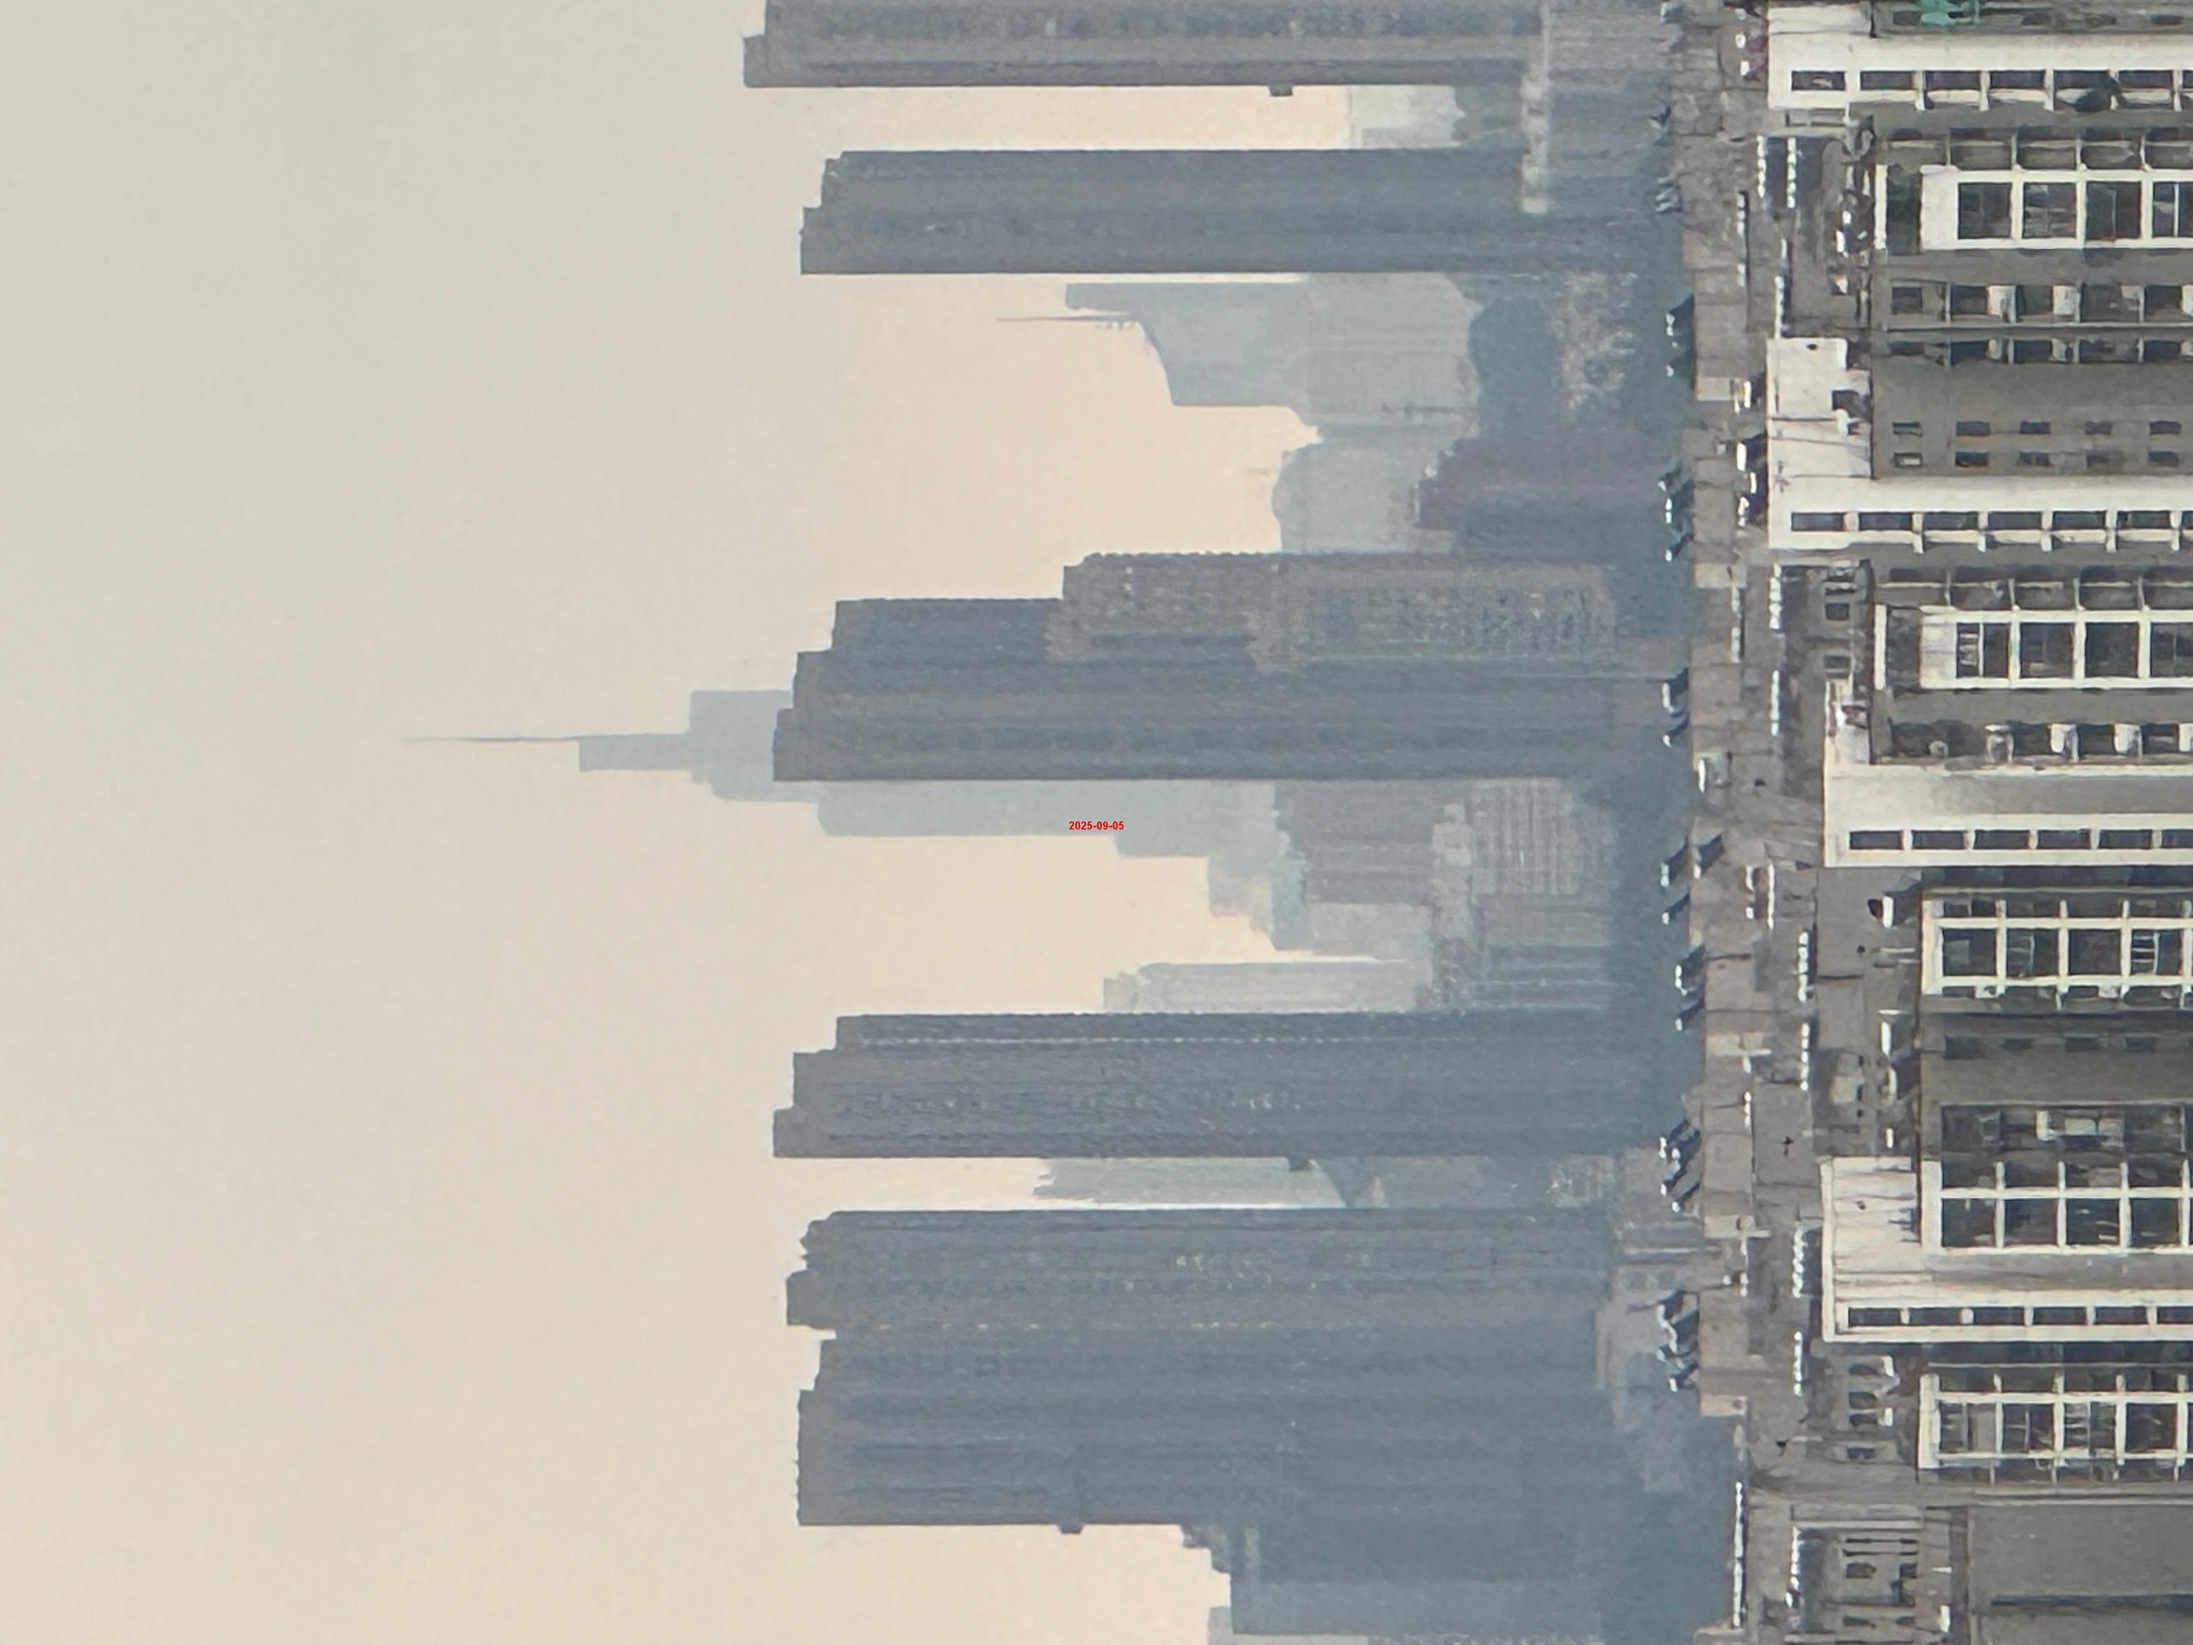
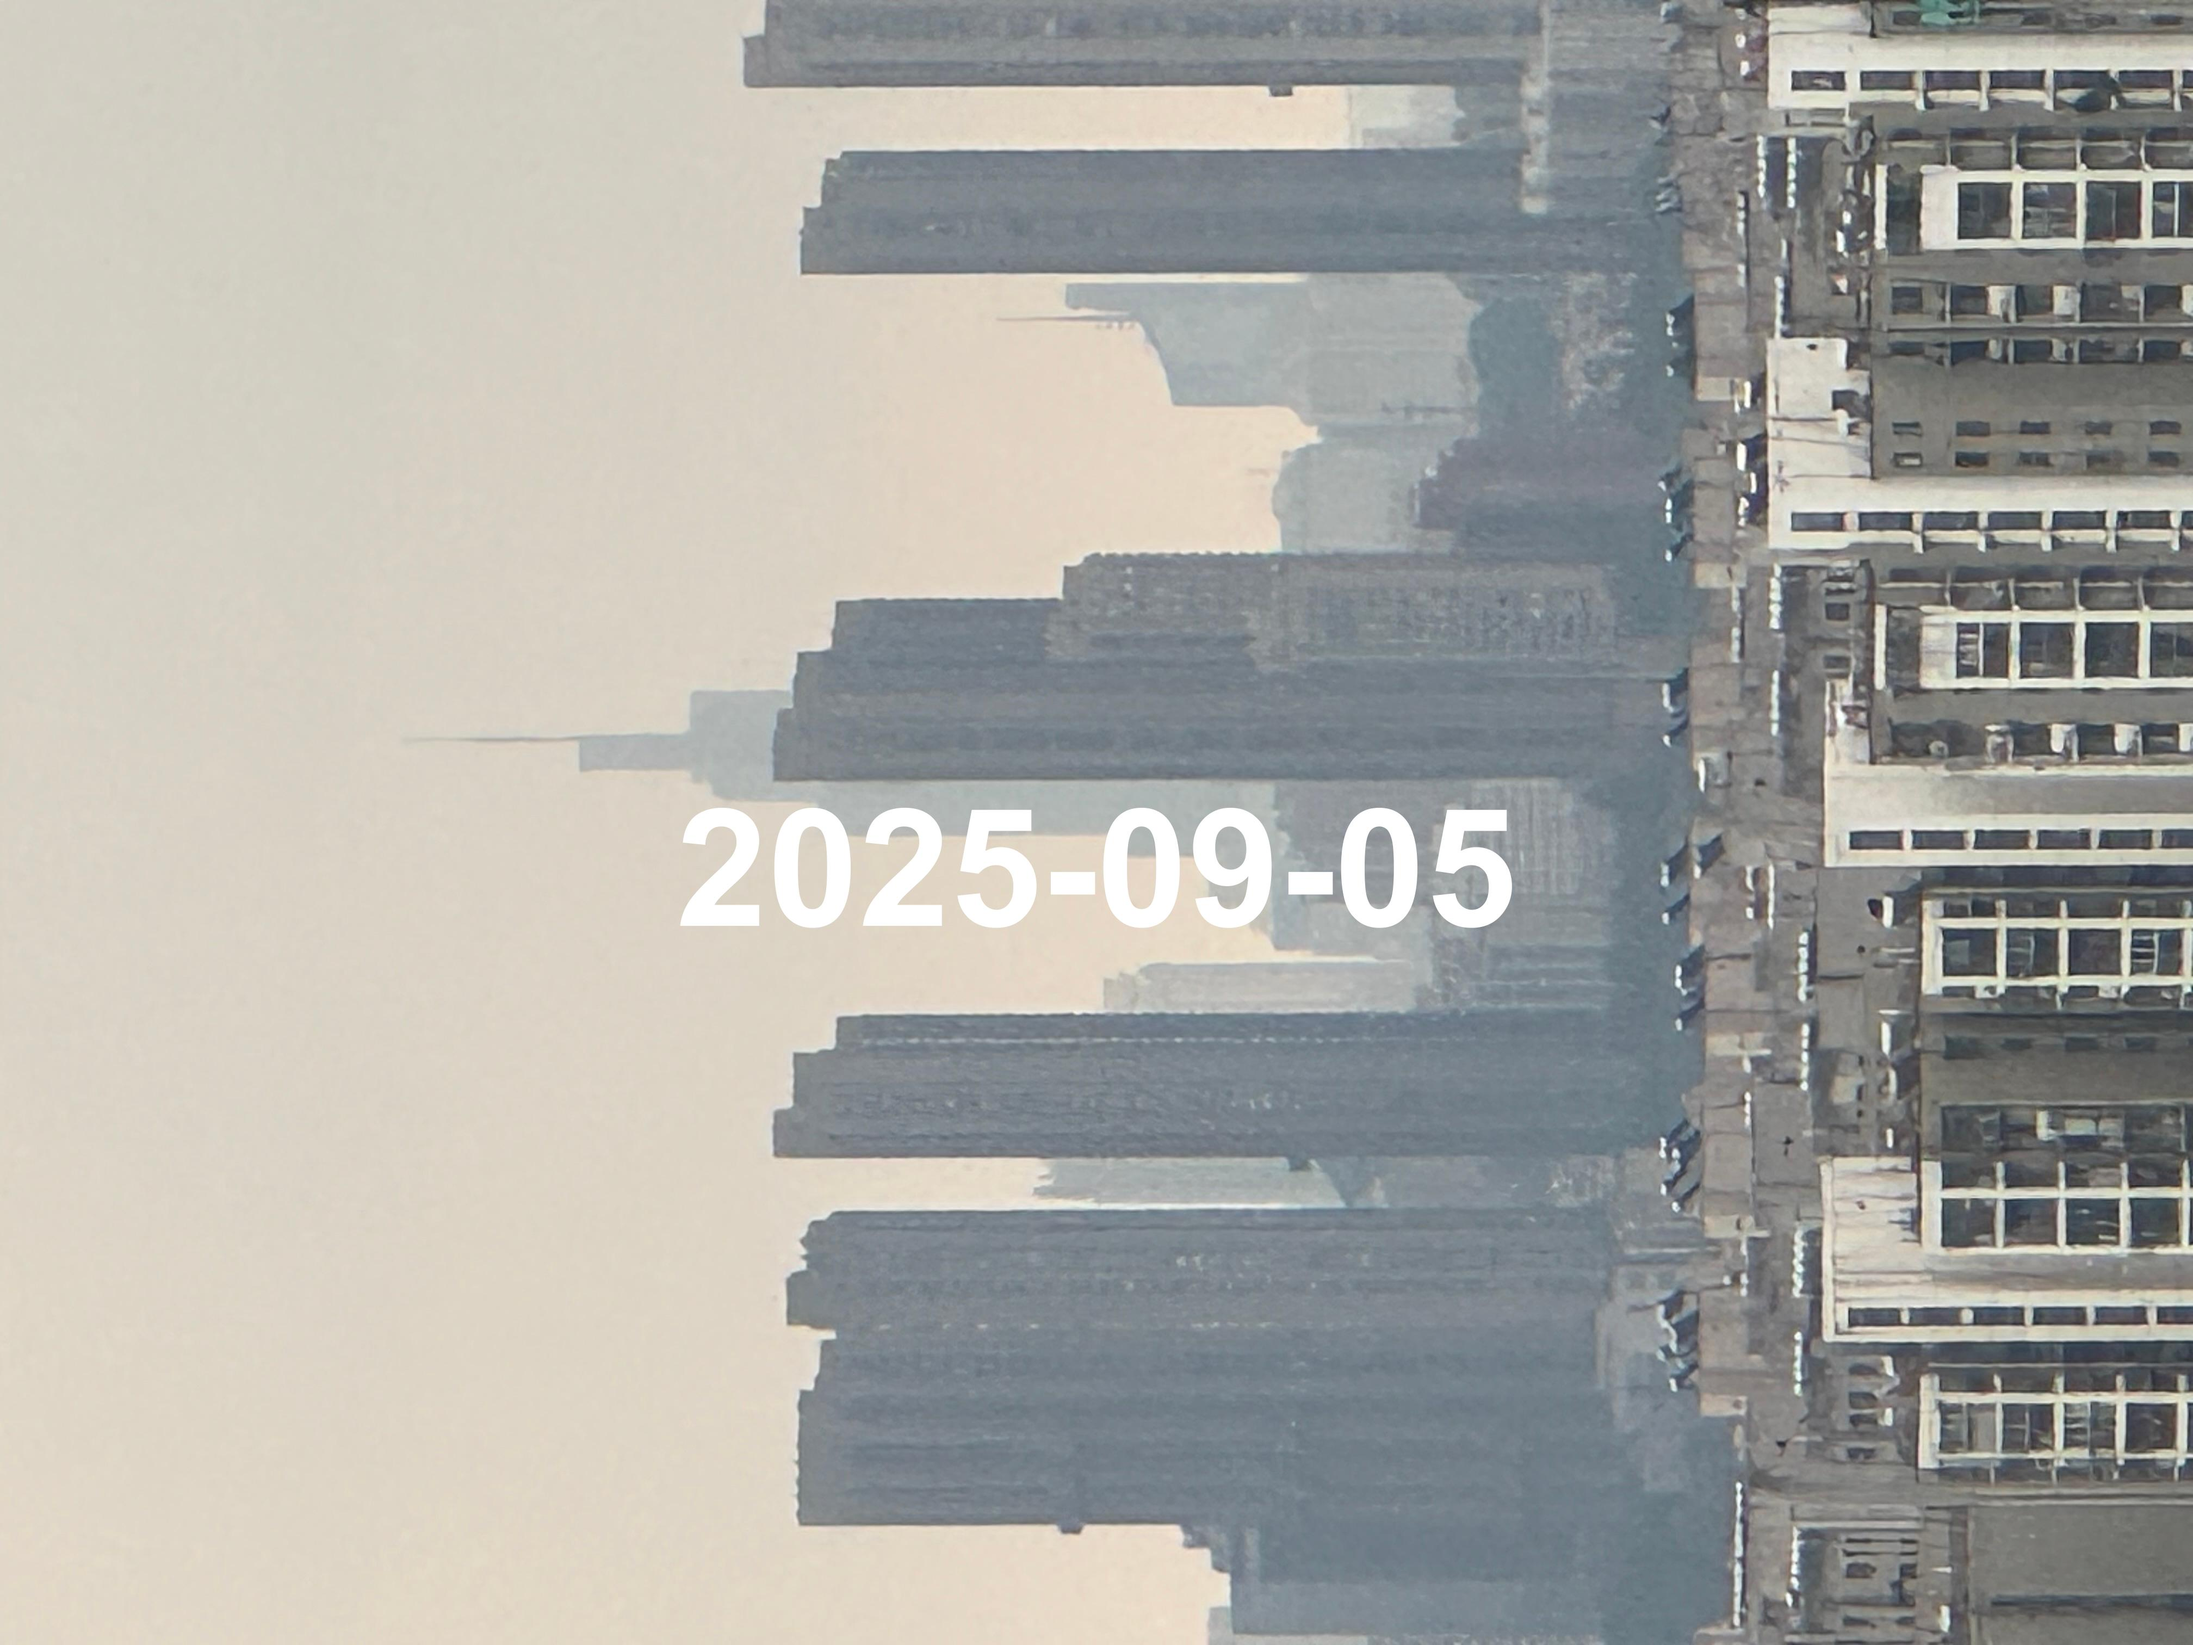
fix(水印大小)：修复了水印显示过于小的问题
1.修复了水印显示过于小的问题

Changed region(s): [[0.3125, 0.4663, 0.6875, 0.5906]]

diff --git a/src/main/java/PhotoWatermark.java b/src/main/java/PhotoWatermark.java
@@ -18,8 +18,8 @@ import java.util.Scanner;
 /**
  * PhotoWatermark is a command-line Java program that adds watermarks to images based on their EXIF date.
  * It processes all image files in a fixed 'src/photo' directory under the project root and saves watermarked
- * images to a 'src/photo/watermark' subdirectory. Users can configure font size, color, and position interactively.
- *
+ * images to a 'src/photo/watermark' subdirectory. Font size is fixed at one-tenth of the image dimensions,
+ * and users can configure color and position interactively.
  * Dependencies:
  * - metadata-extractor (for EXIF reading): Place metadata-extractor-2.18.0.jar in lib/ folder.
  * - Java 8 or higher.
@@ -43,11 +43,8 @@ public class PhotoWatermark {
             return;
         }
 
-        // Prompt for configurations
+        // Prompt for configurations (only color and position)
         Scanner scanner = new Scanner(System.in);
-        System.out.print("Enter font size (e.g., 20): ");
-        int fontSize = Integer.parseInt(scanner.nextLine().trim());
-
         System.out.print("Enter color (e.g., WHITE, BLACK, RED): ");
         Color color = parseColor(scanner.nextLine().trim().toUpperCase());
 
@@ -59,7 +56,7 @@ public class PhotoWatermark {
         if (files != null) {
             for (File file : files) {
                 if (isImageFile(file)) {
-                    processImage(file, outputDir, fontSize, color, position);
+                    processImage(file, outputDir, color, position);
                 }
             }
         }
@@ -72,7 +69,7 @@ public class PhotoWatermark {
         return name.endsWith(".jpg") || name.endsWith(".jpeg") || name.endsWith(".png");
     }
 
-    private static void processImage(File inputFile, Path outputDir, int fontSize, Color color, Position position) {
+    private static void processImage(File inputFile, Path outputDir, Color color, Position position) {
         try {
             // Read EXIF date
             String watermarkText = getExifDate(inputFile);
@@ -84,10 +81,14 @@ public class PhotoWatermark {
             // Read image
             BufferedImage image = ImageIO.read(inputFile);
 
+            // Calculate dynamic font size (one-tenth of image width)
+            int fontSize = Math.max(10, Math.min(image.getWidth() / 10, image.getHeight() / 10)); // Ensure minimum 10
+            Font font = new Font("SansSerif", Font.BOLD, fontSize);
+
             // Create graphics
             Graphics2D g2d = image.createGraphics();
             g2d.setRenderingHint(RenderingHints.KEY_ANTIALIASING, RenderingHints.VALUE_ANTIALIAS_ON);
-            g2d.setFont(new Font("SansSerif", Font.BOLD, fontSize));
+            g2d.setFont(font);
             g2d.setColor(color);
 
             // Calculate position
